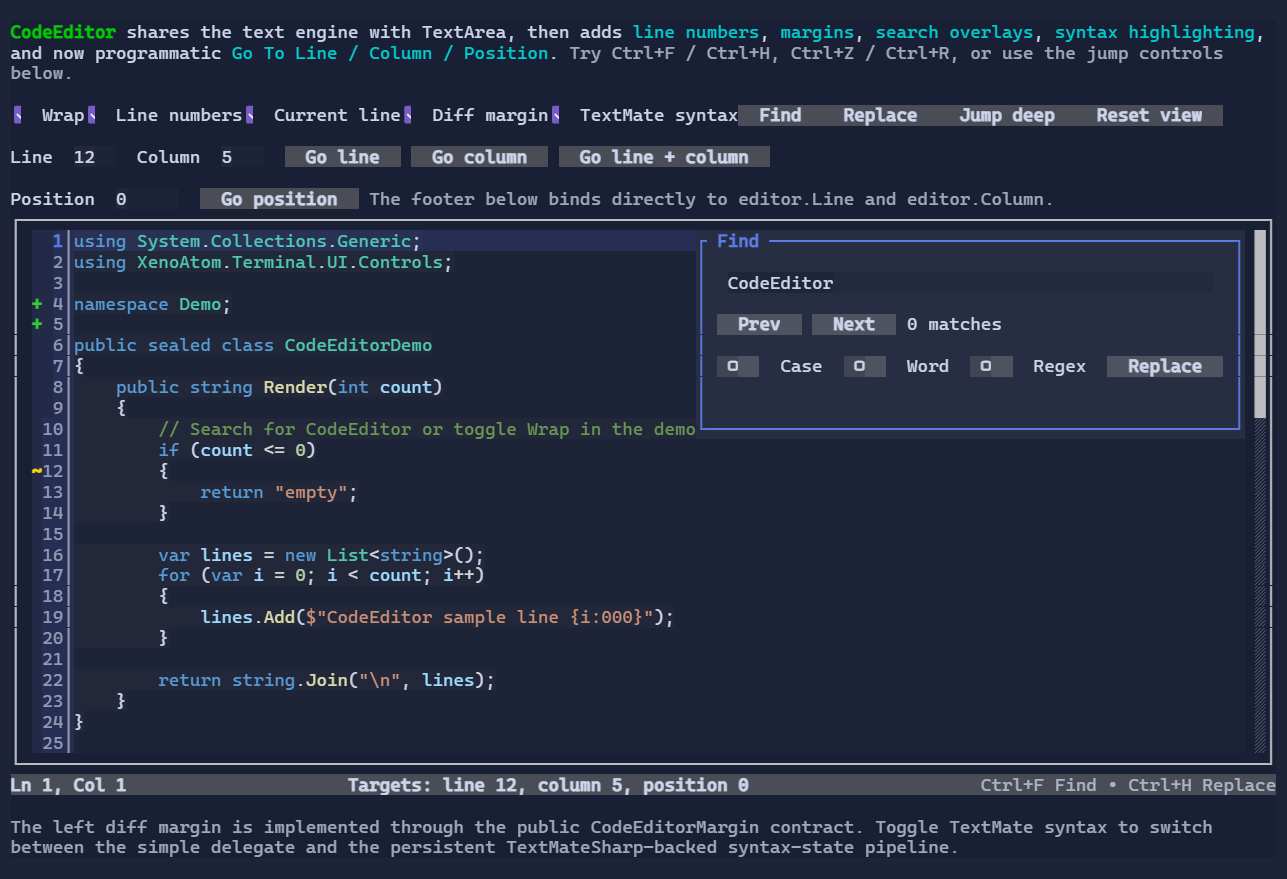
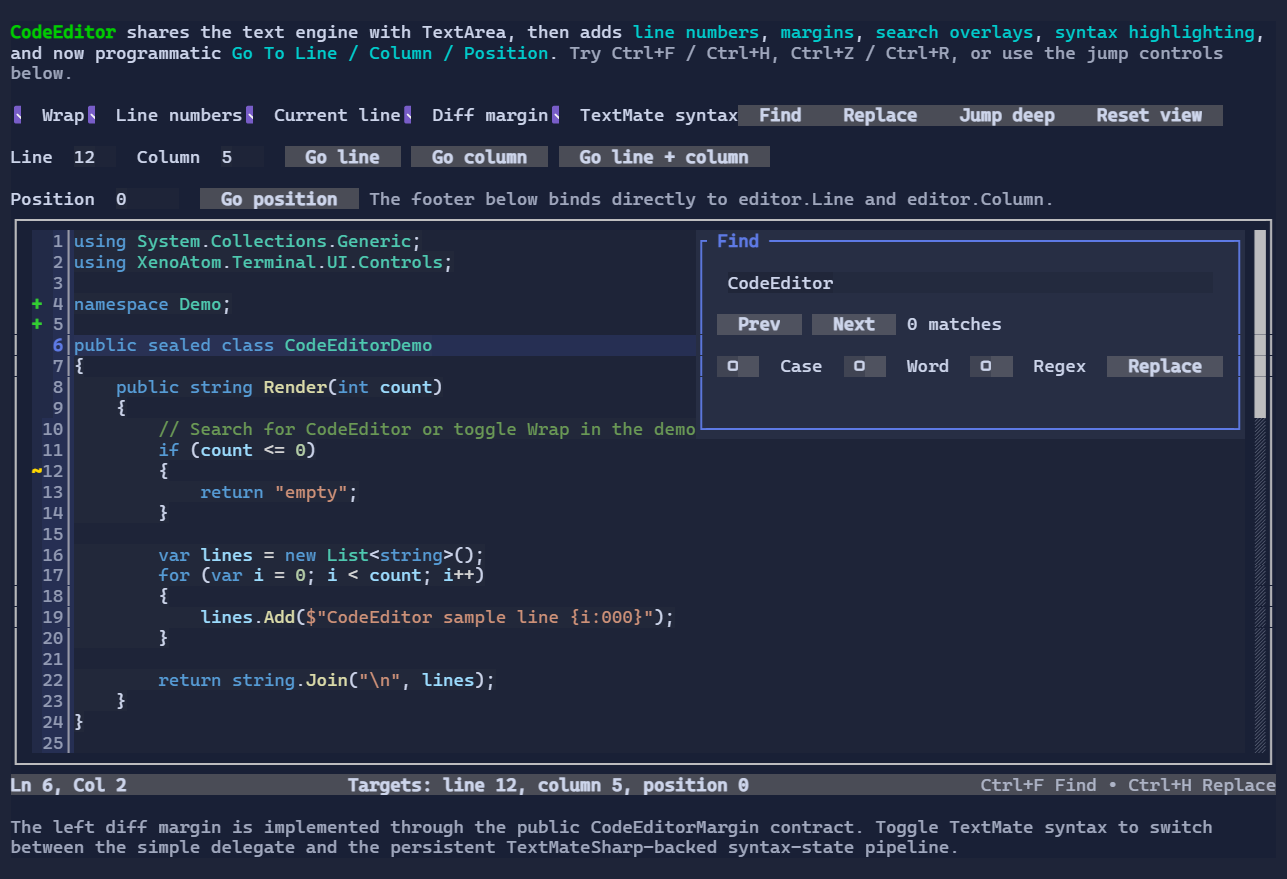
Update screenshots

Changed region(s): [[0.0622, 0.2457, 0.5594, 0.3072], [0.0311, 0.3686, 0.5594, 0.43]]

diff --git a/samples/ControlsDemo/Demos/PromptEditorDemo.cs b/samples/ControlsDemo/Demos/PromptEditorDemo.cs
@@ -40,7 +40,7 @@ public sealed class PromptEditorDemo : ControlsDemoBase
         };
 
         var help = new Markup("""
-                              [bold green]PromptEditor[/] — prompt-style editor demo
+                              [bold green]PromptEditor[/] - prompt-style editor demo
 
                               [gray]Try:[/]
                                • Type [bold red]error[/], [bold yellow]warn[/], [bold green]info[/] to see syntax highlighting.
@@ -99,7 +99,7 @@ public sealed class PromptEditorDemo : ControlsDemoBase
         var continuationMarkup = new TextBox(continuationMarkupText);
         var checkedVisualGutter = new CheckBox("Visual Gutter").IsChecked(visualGutter);
         var configLine = new HStack(checkedVisualGutter, checkedAutoPrompt, "Prompt Markup:", promptMarkup, "Continuation Markup:", continuationMarkup).Spacing(1);
-        
+
         // Callbacks (accept/cancel/completion/highlighting).
         promptEditor.Accepted((_, e) =>
         {
@@ -259,7 +259,7 @@ public sealed class PromptEditorDemo : ControlsDemoBase
 
             var hint = matches.Count > 10 ? new Markup($"[dim]+{matches.Count - 10} more…[/]") : null;
             var details = matches.Count == 1
-                ? new Markup($"[dim]↳[/] [primary]{matches[0].Command}[/] [dim]— {EscapeMarkup(matches[0].Description)}[/]")
+                ? new Markup($"[dim]↳[/] [primary]{matches[0].Command}[/] [dim]- {EscapeMarkup(matches[0].Description)}[/]")
                 : new Markup($"[dim]↳ Press[/] [cyan]Tab[/] [dim]to complete. Prefix:[/] [primary]{EscapeMarkup(prefixText)}[/]");
 
             var wrap = new WrapHStack(chipVisuals.ToArray()).Spacing(1).RunSpacing(0);

diff --git a/samples/InlineLiveDemo/Program.cs b/samples/InlineLiveDemo/Program.cs
@@ -10,7 +10,7 @@ try
 {
     using var session = Terminal.Open();
 
-    Terminal.WriteMarkupLine("[bold]XenoAtom.Terminal.UI — Inline / Live demo[/]");
+    Terminal.WriteMarkupLine("[bold]XenoAtom.Terminal.UI - Inline / Live demo[/]");
     Terminal.WriteLine();
 
     Terminal.Write(new VStack(
@@ -133,5 +133,5 @@ try
 catch (OperationCanceledException)
 {
     Terminal.WriteLine();
-    Terminal.WriteMarkupLine("[yellow]You canceled the prompt. Exiting the demo — see you![/]");
+    Terminal.WriteMarkupLine("[yellow]You canceled the prompt. Exiting the demo - see you![/]");
 }

diff --git a/samples/ControlsDemo/Demos/LogControlDemo.cs b/samples/ControlsDemo/Demos/LogControlDemo.cs
@@ -42,7 +42,7 @@ public sealed class LogControlDemo : ControlsDemoBase
                 }
                 else
                 {
-                    log.AppendLine($"Message {id} — The quick brown fox jumps over the lazy dog.");
+                    log.AppendLine($"Message {id} - The quick brown fox jumps over the lazy dog.");
                 }
             }
         }

diff --git a/site/docs/text-editing.md b/site/docs/text-editing.md
@@ -13,18 +13,18 @@ with selection, clipboard, undo/redo, scrolling, integrated Find/Replace, and co
 
 These controls share the same editing engine and most of the same user experience:
 
-- [TextBox](controls/textbox.md) — single-line editor, password mode, overflow indicators
-- [TextArea](controls/textarea.md) — multi-line editor, soft wrapping, Find/Replace popup
-- [CodeEditor](controls/codeeditor.md) — multi-line code editor with line numbers, pluggable margins, and syntax highlighting
-- [MaskedInput](controls/maskedinput.md) — structured templates (credit cards, dates, IDs, etc.)
-- [NumberBox](controls/numberbox.md) — numeric value binding with inline validation
-- [PromptEditor](controls/prompteditor.md) — prompt-style editor with single-line or multi-line modes and configurable command hints for accept/new-line workflows
+- [TextBox](controls/textbox.md) - single-line editor, password mode, overflow indicators
+- [TextArea](controls/textarea.md) - multi-line editor, soft wrapping, Find/Replace popup
+- [CodeEditor](controls/codeeditor.md) - multi-line code editor with line numbers, pluggable margins, and syntax highlighting
+- [MaskedInput](controls/maskedinput.md) - structured templates (credit cards, dates, IDs, etc.)
+- [NumberBox](controls/numberbox.md) - numeric value binding with inline validation
+- [PromptEditor](controls/prompteditor.md) - prompt-style editor with single-line or multi-line modes and configurable command hints for accept/new-line workflows
 
 Other controls also *use* the same infrastructure for parts of their UX:
 
-- [SearchReplacePopup](controls/searchreplacepopup.md) — reusable Find / Replace UI (hosted by TextArea, CodeEditor, and LogControl)
-- [LogControl](controls/logcontrol.md) — selection/copy + Find (Ctrl+F)
-- [DataGridControl](controls/datagrid.md) — in-place editing uses text editors (e.g. TextBox/NumberBox)
+- [SearchReplacePopup](controls/searchreplacepopup.md) - reusable Find / Replace UI (hosted by TextArea, CodeEditor, and LogControl)
+- [LogControl](controls/logcontrol.md) - selection/copy + Find (Ctrl+F)
+- [DataGridControl](controls/datagrid.md) - in-place editing uses text editors (e.g. TextBox/NumberBox)
 
 ## Editing features
 

diff --git a/site/docs/specs/controls/toast.md b/site/docs/specs/controls/toast.md
@@ -6,11 +6,11 @@ title: Toast / Notification Control Specs
 
 This document specifies a **toast/notification** system for XenoAtom.Terminal.UI:
 
-- `Toast` — the individual notification visual
-- `ToastHost` — the container that manages toast positioning and lifecycle
-- `ToastService` — the API for showing toasts from anywhere in the app
+- `Toast` - the individual notification visual
+- `ToastHost` - the container that manages toast positioning and lifecycle
+- `ToastService` - the API for showing toasts from anywhere in the app
 
-The goal is to provide non-blocking, auto-dismissing feedback messages that don't interrupt user workflow — a modern UX pattern missing from most terminal UI frameworks.
+The goal is to provide non-blocking, auto-dismissing feedback messages that don't interrupt user workflow - a modern UX pattern missing from most terminal UI frameworks.
 
 Design goals:
 
@@ -374,9 +374,9 @@ For v1, instant appear/disappear is acceptable. Animation can be added in v1.1.
 
 When `visibleToasts.Count >= MaxVisible`:
 
-Option A (recommended): **Dismiss oldest** — auto-dismiss the oldest toast to make room
-Option B: **Queue** — new toasts wait until a slot opens
-Option C: **Reject** — `Show()` returns `null`, toast not displayed
+Option A (recommended): **Dismiss oldest** - auto-dismiss the oldest toast to make room
+Option B: **Queue** - new toasts wait until a slot opens
+Option C: **Reject** - `Show()` returns `null`, toast not displayed
 
 Default SHOULD be Option A for best UX.
 

diff --git a/site/docs/specs/dirty_rendering_specs.md b/site/docs/specs/dirty_rendering_specs.md
@@ -56,7 +56,7 @@ updates**, not only “dirty flags”.
 
 ## Options
 
-### Option A — Full-frame repaint (current behavior)
+### Option A - Full-frame repaint (current behavior)
 
 **Summary**: Always clear the full buffer and render the full tree.
 
@@ -68,7 +68,7 @@ updates**, not only “dirty flags”.
 **Cons**
 - Tree traversal + rendering runs for every render request.
 
-### Option B — Incremental rendering into a persistent buffer (recommended)
+### Option B - Incremental rendering into a persistent buffer (recommended)
 
 **Summary**: Keep the render buffer as “current frame”, and on each render only repaint *dirty rectangles* by:
 
@@ -84,7 +84,7 @@ updates**, not only “dirty flags”.
 - Requires tracking dirty rectangles (at least a union rect).
 - Requires correctness rules for “layout changes” (old/new bounds).
 
-### Option C — Only render dirty subtrees (not recommended)
+### Option C - Only render dirty subtrees (not recommended)
 
 **Summary**: Render only the dirty visual and its children directly into the existing buffer.
 
@@ -93,7 +93,7 @@ many controls (e.g., `TextBlock` typically paints glyphs only), so stale pixels 
 
 This option is not recommended unless the framework enforces a “fully paints bounds” rule.
 
-### Option D — Retained sub-buffer per visual (“layers”)
+### Option D - Retained sub-buffer per visual (“layers”)
 
 **Summary**: Each visual renders into its own buffer and is composited into the parent.
 

diff --git a/site/docs/specs/code_editor_specs.md b/site/docs/specs/code_editor_specs.md
@@ -719,7 +719,7 @@ Persistent state should be cached by:
 
 ## Phased implementation plan
 
-### Phase 1 — code-editor shell
+### Phase 1 - code-editor shell
 
 - Add `CodeEditor : TextEditorBase`.
 - Add `CodeEditorStyle`.
@@ -727,20 +727,20 @@ Persistent state should be cached by:
 - Add left/right margin collections.
 - Keep behavior otherwise close to `TextArea`.
 
-### Phase 2 — simple highlighting parity
+### Phase 2 - simple highlighting parity
 
 - Add a `PromptEditor`-style simple highlighter delegate.
 - Support line-relative `StyledRun`s.
 - Render visible highlighted text without breaking current text-editor performance work.
 
-### Phase 3 — advanced incremental highlighting
+### Phase 3 - advanced incremental highlighting
 
 - Add persistent syntax-state abstraction.
 - Add diff-aware update contexts.
 - Add version-gated async support.
 - Add tests proving no full-document re-highlight on scroll.
 
-### Phase 4 — ecosystem package
+### Phase 4 - ecosystem package
 
 - Create a separate language/highlighting package using the public contracts defined here.
 - Add reusable tokenizers / adapters there, not in the core UI package.

diff --git a/site/docs/binding.md b/site/docs/binding.md
@@ -68,9 +68,9 @@ factory and potentially reinitializing the subtree (often resulting in surprisin
 
 To support this, `BindingManager` exposes two scoped suppression helpers:
 
-- `BindingManager.Current.SuppressReadTracking()` — disables dependency recording for bindable reads in the scope.
-- `BindingManager.Current.SuppressWriteTracking()` — suppresses write notifications (`ValueChanged`) in the scope.
-- `BindingManager.Current.RunAfterTracking(action)` — runs `action` immediately when no tracking scope is active, or defers it until the outermost tracking scope completes.
+- `BindingManager.Current.SuppressReadTracking()` - disables dependency recording for bindable reads in the scope.
+- `BindingManager.Current.SuppressWriteTracking()` - suppresses write notifications (`ValueChanged`) in the scope.
+- `BindingManager.Current.RunAfterTracking(action)` - runs `action` immediately when no tracking scope is active, or defers it until the outermost tracking scope completes.
 
 > [!IMPORTANT]
 > Suppression affects **all** bindable reads/writes within the scope. Keep the scope small and always use `using` so tracking is restored.

diff --git a/site/readme.md b/site/readme.md
@@ -45,7 +45,7 @@ og_type: website
         <div class="card-header display-6"><i class="bi bi-ui-checks-grid lunet-feature-icon lunet-icon--controls"></i> Composable controls</div>
         <div class="card-body">
           <p class="card-text">
-            Inputs, layout containers, menus, overlays, charts, and more — all composable and styleable.
+            Inputs, layout containers, menus, overlays, charts, and more - all composable and styleable.
           </p>
 
 [Controls Reference](docs/controls/readme.md)
@@ -58,7 +58,7 @@ og_type: website
         <div class="card-header display-6"><i class="bi bi-pencil-square lunet-feature-icon lunet-icon--editing"></i> Text editing</div>
         <div class="card-body">
           <p class="card-text">
-            TextBox/TextArea with selection, scrolling, clipboard, and Find/Replace — powered by a shared text subsystem.
+            TextBox/TextArea with selection, scrolling, clipboard, and Find/Replace - powered by a shared text subsystem.
           </p>
 
 [Text Editing](docs/text-editing.md)

diff --git a/site/docs/specs/readme.md b/site/docs/specs/readme.md
@@ -15,11 +15,11 @@ They are useful when you want to understand *why* a feature behaves a certain wa
 
 ## How to navigate
 
-- [Control Specs](controls/readme.md) — one spec file per control
-- [Placeholder](controls/placeholder.md) — simple mockup/empty-state surface
-- [PromptEditor](controls/prompteditor.md) — prompt-style text editor (planned control)
-- [Controls Roadmap](controls_todo.md) — what’s next / what’s missing
-- [Archive](archive/readme.md) — historical documents kept for context
+- [Control Specs](controls/readme.md) - one spec file per control
+- [Placeholder](controls/placeholder.md) - simple mockup/empty-state surface
+- [PromptEditor](controls/prompteditor.md) - prompt-style text editor (planned control)
+- [Controls Roadmap](controls_todo.md) - what’s next / what’s missing
+- [Archive](archive/readme.md) - historical documents kept for context
 
 ## Framework & cross-cutting specs
 

diff --git a/site/docs/specs/controls/datagrid.md b/site/docs/specs/controls/datagrid.md
@@ -55,9 +55,9 @@ The design is inspired by modern terminal UI patterns and spreadsheet/datagrid e
 
 `DataGridControl` is split into three layers:
 
-1) **`IDataGridDocument`** — owns data and mutations (similar to `ITextDocument`).
-2) **`IDataGridView`** — provides a sorted/filtered projection over a document (optional but recommended).
-3) **`DataGridControl`** — the visual control; handles input, rendering, selection, and editing.
+1) **`IDataGridDocument`** - owns data and mutations (similar to `ITextDocument`).
+2) **`IDataGridView`** - provides a sorted/filtered projection over a document (optional but recommended).
+3) **`DataGridControl`** - the visual control; handles input, rendering, selection, and editing.
 
 The control MUST be able to operate with:
 

diff --git a/site/docs/specs/controls/breakdownchart.md b/site/docs/specs/controls/breakdownchart.md
@@ -105,9 +105,9 @@ The bar draws a single line of segment cells.
 
 From `BreakdownStyle`:
 
-- `FillRune` (default: space) — the rune stamped in segment cells
-- `SegmentGap` (default: `1`) — empty cells between segments
-- `BarStyle` — base style used for the bar (defaults to `theme.ControlFillStyle()`)
+- `FillRune` (default: space) - the rune stamped in segment cells
+- `SegmentGap` (default: `1`) - empty cells between segments
+- `BarStyle` - base style used for the bar (defaults to `theme.ControlFillStyle()`)
 
 From each `BreakdownSegment`:
 
